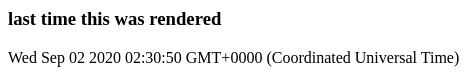
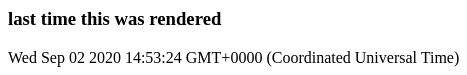
Updated markdown files

Changed region(s): [[0.2698, 0.6933, 0.3897, 0.8533]]

diff --git a/README.md b/README.md
@@ -6,8 +6,9 @@ Javascript
 console.log('hello world from javascript')
 ```
 
-``` markdown-code-runner output
+``` markdown-code-runner
 hello world from javascript
+
 ```
 
 Typescript
@@ -15,12 +16,9 @@ Typescript
 console.log('hello world from typescript')
 ```
 
-``` markdown-code-runner output
-
-> 82190303@1.0.0 start /tmp/82190303
-> ts-node index.ts
-
+``` markdown-code-runner
 hello world from typescript
+
 ```
 
 JSX
@@ -43,8 +41,9 @@ Python
 print('hello world from python')
 ```
 
-``` markdown-code-runner output
+``` markdown-code-runner
 hello world from python
+
 ```
 
 Bash
@@ -52,8 +51,9 @@ Bash
 echo 'hello world from bash'
 ```
 
-``` markdown-code-runner output
+``` markdown-code-runner
 hello world from bash
+
 ```
 
 Shell
@@ -61,6 +61,7 @@ Shell
 echo 'hello world from Shell'
 ```
 
-``` markdown-code-runner output
+``` markdown-code-runner
 hello world from Shell
+
 ```

diff --git a/examples/javascript.md b/examples/javascript.md
@@ -14,6 +14,21 @@ const table = [
 console.table(table);
 ```
 
+``` markdown-code-runner
+the javascript code is run in node
+it can do maths
+1046.0494640133365
+and can render a table
+┌─────────┬──────────┬───────┐
+│ (index) │   name   │ yummy │
+├─────────┼──────────┼───────┤
+│    0    │ 'chips'  │   8   │
+│    1    │ 'pizza'  │   8   │
+│    2    │ 'burger' │   0   │
+└─────────┴──────────┴───────┘
+
+```
+
 ``` js
 const fetch = require("node-fetch");
 
@@ -33,3 +48,9 @@ fetch('https://api.kanye.rest/')
     ]
   }
 -->
+
+``` markdown-code-runner
+Kanye West quote:
+2024
+
+```

diff --git a/examples/jsx.md b/examples/jsx.md
@@ -8,6 +8,12 @@ const App = () => <p>Example React</p>
 export default App
 ```
 
+<!-- markdown-code-runner image-start -->
+
+![rendered jsx](./jsx.0.png)
+
+<!-- markdown-code-runner image-end -->
+
 ``` jsx
 import React from "react"
 
@@ -22,3 +28,9 @@ const App = () => {
 
 export default App
 ```
+
+<!-- markdown-code-runner image-start -->
+
+![rendered jsx](./jsx.1.png)
+
+<!-- markdown-code-runner image-end -->

diff --git a/examples/bash.md b/examples/bash.md
@@ -7,3 +7,11 @@ echo shell: $SHELL
 echo ls: $(ls)
 echo date: $(date)
 ```
+
+``` markdown-code-runner
+hostname: fv-az183
+shell: /bin/bash
+ls: LICENSE README.4.png README.md action.yml dist examples node_modules package.json setup-and-run.js src tsconfig.json yarn.lock
+date: Wed Sep 2 14:52:15 UTC 2020
+
+```

diff --git a/examples/python.md b/examples/python.md
@@ -13,3 +13,9 @@ if (randomNumber >= 0.5):
 else:
     print('all bets on red')
 ```
+
+``` markdown-code-runner
+running python code is easy
+all bets on black
+
+```

diff --git a/examples/typescript.md b/examples/typescript.md
@@ -7,3 +7,8 @@ const hey = (person: String) => {
 
 console.log(hey("nick"));
 ```
+
+``` markdown-code-runner
+Hello, nick
+
+```
